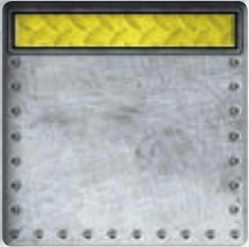
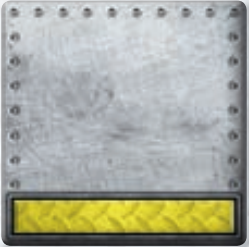
wallspace on view

diff --git a/roborally-1.4.0a-java17/roborally/src/main/java/dk/dtu/compute/se/pisd/roborally/style.css b/roborally-1.4.0a-java17/roborally/src/main/java/dk/dtu/compute/se/pisd/roborally/style.css
@@ -1,7 +1,7 @@
 
 #space-view {
     -fx-background-color: lightgray;
-    -fx-effect: innershadow( gaussian, gray, 10, 0, 0, 0);
+    -fx-effect: innershadow(gaussian, gray, 10, 0, 0, 0);
 }
 
 

diff --git a/roborally-1.4.0a-java17/roborally/target/classes/dk/dtu/compute/se/pisd/roborally/style.css b/roborally-1.4.0a-java17/roborally/target/classes/dk/dtu/compute/se/pisd/roborally/style.css
@@ -1,7 +1,7 @@
 
 #space-view {
     -fx-background-color: lightgray;
-    -fx-effect: innershadow( gaussian, gray, 10, 0, 0, 0);
+    -fx-effect: innershadow(gaussian, gray, 10, 0, 0, 0);
 }
 
 

diff --git a/roborally-1.4.0a-java17/roborally/src/main/java/dk/dtu/compute/se/pisd/roborally/controller/GameController.java b/roborally-1.4.0a-java17/roborally/src/main/java/dk/dtu/compute/se/pisd/roborally/controller/GameController.java
@@ -295,6 +295,8 @@ public class GameController {
             board.setCurrentPlayer(board.getPlayer(0));
         }
     }
+
+
     //  FLYTTET FRA EnergySpace.java AF LOUISE OG ÆNDRET TIL VOID
         public void isPlayerOnEnergySpace(Player player, EnergyBank energyBank) {
         Space currentSpace = player.getSpace();
@@ -329,7 +331,7 @@ public class GameController {
 
 
     /**
-     * @author Petrine 
+     * @author Petrine & Louise
      * Allows a player to have its own energyreserve, that will get updated every time 
      * a cube gets added to it. 
      * 
@@ -453,8 +455,10 @@ public class GameController {
 
             switch (command) {
                 case FORWARD:
+                    System.out.println(player.getSpace().toString());
                     this.moveForward(player);
-                    moves = moves +1;
+                    System.out.println(player.getSpace().toString());
+                    moves += +1;
                     board.setMoves(moves);
                     break;
                 case RIGHT:

diff --git a/roborally-1.4.0a-java17/roborally/src/main/java/dk/dtu/compute/se/pisd/roborally/view/SpaceView.java b/roborally-1.4.0a-java17/roborally/src/main/java/dk/dtu/compute/se/pisd/roborally/view/SpaceView.java
@@ -77,6 +77,7 @@ public class SpaceView extends StackPane implements ViewObserver {
         
         //Hvis et space er et EnergySpace
         if(space instanceof EnergySpace) {
+            this.getChildren().clear();
             this.setId("energyspace-view");
         }
 
@@ -90,9 +91,10 @@ public class SpaceView extends StackPane implements ViewObserver {
         
 
         //Hvis et space er en wall
-        //if (space instanceof WallSpace) {
-           // this.setId("wallspace-view");
-       // }
+        if (space instanceof WallSpace) {
+           this.getChildren().clear();
+           this.setId("wallspace-view");
+        }
 
 
         // This space view should listen to changes of the space
@@ -113,6 +115,7 @@ public class SpaceView extends StackPane implements ViewObserver {
             
             try {
                 arrow.setFill(Color.valueOf(player.getColor()));
+                arrow.toFront();
             } catch (Exception e) {
                 arrow.setFill(Color.MEDIUMPURPLE);
             }

diff --git a/roborally-1.4.0a-java17/roborally/src/main/java/dk/dtu/compute/se/pisd/roborally/model/Heading.java b/roborally-1.4.0a-java17/roborally/src/main/java/dk/dtu/compute/se/pisd/roborally/model/Heading.java
@@ -27,6 +27,39 @@ package dk.dtu.compute.se.pisd.roborally.model;
  * @author Ekkart Kindler, ekki@dtu.dk
  *
  */
+
+ /*   ORIGINALE
+public enum Heading {
+
+    SOUTH, WEST, NORTH, EAST;
+
+    public Heading next() {
+        return values()[(this.ordinal() + 1) % values().length];
+    }
+
+    public Heading prev() {
+        return values()[(this.ordinal() + values().length - 1) % values().length];
+    }
+    public Heading opposite() {
+        return switch (this) {
+            case NORTH -> SOUTH;
+            case EAST -> WEST;
+            case SOUTH -> NORTH;
+            case WEST -> EAST;
+            default -> throw new IllegalStateException("Unexpected value: " + this);
+        };
+    }
+
+    public Heading backward(Heading currentHeading) {
+        // Calculate the opposite heading and return it
+        return currentHeading.opposite();
+    }
+}
+
+*/
+
+
+//TESTER
 public enum Heading {
 
     SOUTH, WEST, NORTH, EAST;
